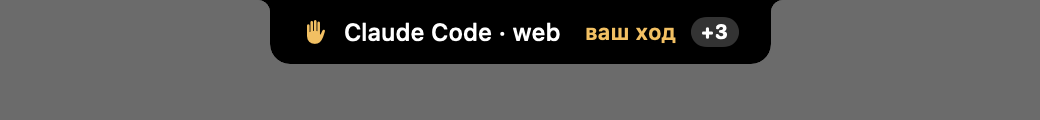
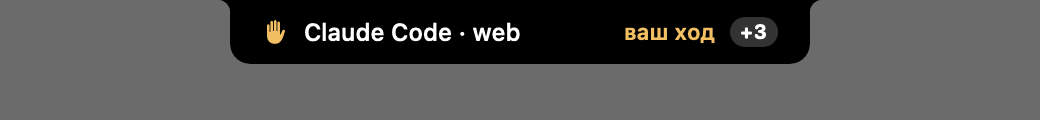
Width setting: the island's length, apart from its size
Size scales the whole island; the new Width slider makes it longer or
shorter at the same height. While something runs the strip keeps one set
length instead of stretching to each command: the command gives way with
an ellipsis in the middle, the timer and counts stay whole. Prod Guard
keeps its PROD label and shortens the environments instead.

Changed region(s): [[0.2154, 0.0, 0.8, 0.55]]

diff --git a/Sources/Notchline/Views.swift b/Sources/Notchline/Views.swift
@@ -160,7 +160,9 @@ struct RootView: View {
     enum Mode: Hashable { case toast, panel, strip, idle, sliver }
 
     private var edge: Edge { state.prefs.edge }
-    private var m: Metrics { Metrics(edge: edge, scale: state.prefs.scale, geometry: geometry) }
+    private var m: Metrics {
+        Metrics(edge: edge, scale: state.prefs.scale, widthScale: state.prefs.width, geometry: geometry)
+    }
 
     private var mode: Mode {
         if state.toast != nil { return .toast }
@@ -181,6 +183,7 @@ struct RootView: View {
         var toast: UUID?
         var connected: Bool
         var scale: Double
+        var width: Double
         var edge: Edge
     }
 
@@ -189,7 +192,7 @@ struct RootView: View {
             count: state.visibleRunning.count + state.tasks.count,
             task: state.orderedTasks.first?.id, waiting: state.orderedTasks.first?.waiting ?? false,
             prod: !state.prodAlert.isEmpty, toast: state.toast?.id,
-            connected: state.isConnected, scale: state.prefs.scale, edge: edge)
+            connected: state.isConnected, scale: state.prefs.scale, width: state.prefs.width, edge: edge)
     }
 
     /// The strip's natural size, measured off-screen so the island can animate
@@ -258,7 +261,7 @@ struct RootView: View {
         case .idle:
             return CGSize(width: m.notchWidth, height: 4)
         case .sliver:
-            return CGSize(width: 5, height: 78 * m.scale)
+            return CGSize(width: 5, height: 78 * m.scale * m.widthScale)
         }
     }
 
@@ -378,37 +381,51 @@ struct BarView: View {
 
     // MARK: horizontal
 
-    private func horizontal(now: Date) -> some View {
-        Group {
-            if m.realNotch {
-                NotchSplit(gap: m.notchWidth + 12 * m.scale) {
-                    HStack(spacing: 7 * m.scale) { lead(now: now) }
-                    HStack(spacing: 7 * m.scale) { trail(now: now) }
-                }
-            } else {
-                HStack(spacing: 12 * m.scale) {
-                    HStack(spacing: 7 * m.scale) { lead(now: now) }
-                    HStack(spacing: 7 * m.scale) { trail(now: now) }
-                }
+    @ViewBuilder private func horizontal(now: Date) -> some View {
+        if m.realNotch {
+            // around a camera housing the halves take what they need
+            NotchSplit(gap: m.notchWidth + 12 * m.scale) {
+                HStack(spacing: 7 * m.scale) { lead(now: now) }
+                HStack(spacing: 7 * m.scale) { trail(now: now) }
             }
+            .padding(.horizontal, m.sideInset)
+            .frame(minWidth: m.notchWidth)
+            .frame(height: m.thickness)
+            .fixedSize()
+        } else {
+            // a set length, so the island does not jump from command to command:
+            // the text gives way, the timer and counts never do
+            HStack(spacing: 0) {
+                // above the spacer: otherwise HStack splits the room between them
+                HStack(spacing: 7 * m.scale) { lead(now: now) }
+                    .layoutPriority(0.5)
+                Spacer(minLength: 10 * m.scale)
+                HStack(spacing: 7 * m.scale) { trail(now: now) }
+                    .fixedSize()
+                    .layoutPriority(1)
+            }
+            .padding(.horizontal, m.sideInset)
+            .frame(width: m.stripLength, height: m.thickness)
         }
-        .padding(.horizontal, m.sideInset)
-        .frame(minWidth: m.notchWidth)
-        .frame(height: m.thickness)
-        .fixedSize()
     }
 
     private var font: CGFloat { m.font }
-    private var commandLimit: Int { m.realNotch ? 26 : 34 }
+    private var commandLimit: Int { m.commandLimit }
 
     /// What is happening: a spinner and the command, or the last result.
     @ViewBuilder private func lead(now: Date) -> some View {
         if prod && !busy {
             warning
             Text("PROD").font(.system(size: font, weight: .heavy)).tracking(0.8)
+                .fixedSize()
+            // the environments give way to the length, the label never does
+            Text(state.prodAlert.map(\.text).joined(separator: " · "))
+                .font(.system(size: font - 1, weight: .medium, design: mono))
+                .lineLimit(1).truncationMode(.tail)
         } else if let task {
             if prod && !task.waiting { warning } else { TaskMark(task: task, size: font) }
             Text(clip(task.title, commandLimit))
+                .lineLimit(1).truncationMode(.middle)
                 .font(.system(size: font, weight: .medium))
         } else if !state.isConnected {
             Image(systemName: "terminal").font(.system(size: font, weight: .semibold))
@@ -417,10 +434,12 @@ struct BarView: View {
         } else if let cmd = state.visibleRunning.first {
             if prod { warning } else { StatusMark(command: cmd, size: font) }
             Text(cmd.short(commandLimit))
+                .lineLimit(1).truncationMode(.middle)
                 .font(.system(size: font, weight: .medium, design: mono))
         } else if let last = state.recent.first {
             StatusMark(command: last, size: font)
             Text(last.short(commandLimit))
+                .lineLimit(1).truncationMode(.middle)
                 .font(.system(size: font, weight: .medium, design: mono))
                 .foregroundStyle(.white.opacity(0.7))
         } else {
@@ -434,9 +453,7 @@ struct BarView: View {
     /// How long, how many more, and where.
     @ViewBuilder private func trail(now: Date) -> some View {
         if prod && !busy {
-            Text(state.prodAlert.prefix(2).map(\.text).joined(separator: " · "))
-                .font(.system(size: font - 1, weight: .medium, design: mono))
-            if state.prodAlert.count > 2 { badge("+\(state.prodAlert.count - 2)") }
+            EmptyView()   // all of it is in `lead`, where it can be shortened
         } else if let task {
             if task.waiting {
                 Text(L10n.t("waitingShort"))

diff --git a/Sources/Notchline/L10n.swift b/Sources/Notchline/L10n.swift
@@ -14,6 +14,7 @@ enum L10n {
 
     private static let table: [Lang: [String: String]] = [
         .en: [
+            "height": "Height", "width": "Width",
             "agentHint.claude": "Hooks for prompts, tool calls, permission requests and the end of each turn, next to your own. The file is rewritten with sorted keys; the original is kept as settings.json.notchline-backup.",
             "agentHint.gemini": "The same events through Gemini CLI hooks: BeforeAgent, BeforeTool, Notification, AfterAgent. Your settings.json keeps its other keys; a backup is left beside it.",
             "agentHint.copilot": "Agent mode in VS Code: a hooks file of its own in ~/.copilot/hooks, nothing else is touched. Hooks are a VS Code preview and on by default (chat.useHooks).",
@@ -37,7 +38,7 @@ enum L10n {
             "otherAgentsHint": "Anything that can run a command on an event can use notch: notch start, notch wait \"Needs input\", notch done.",
             "agentUnreadable": "Could not read {p} as JSON; it was left alone.",
             "look": "Look", "opacity": "Opacity",
-            "lookHint": "At 100 % the island is the size of a 14-inch MacBook Pro notch. On a screen with a notch it takes that notch's exact size.",
+            "lookHint": "At 100 % the island is the size of a 14-inch MacBook Pro notch. Size scales all of it; width makes it longer or shorter at the same height. On a screen with a notch it takes that notch's exact size.",
             "resetLook": "Reset to notch",
             "prodGuard": "Prod Guard", "prodEntered": "You are in production",
             "otherProdShells": "{n} shells point at production", "prodMatched": "Matches a production pattern",
@@ -97,6 +98,7 @@ enum L10n {
             "ignoreHint": "Programs that run for as long as you use them. First word of the command, comma-separated."
         ],
         .ru: [
+            "height": "Высота", "width": "Ширина",
             "agentHint.claude": "Хуки на промпт, вызовы инструментов, запросы разрешений и конец хода — рядом с вашими. Файл перезаписывается с отсортированными ключами; оригинал сохраняется как settings.json.notchline-backup.",
             "agentHint.gemini": "Те же события через хуки Gemini CLI: BeforeAgent, BeforeTool, Notification, AfterAgent. Остальные ключи settings.json остаются; рядом сохраняется копия.",
             "agentHint.copilot": "Режим агента в VS Code: отдельный файл хуков в ~/.copilot/hooks, больше ничего не трогается. Хуки в VS Code — preview-функция и включены по умолчанию (chat.useHooks).",
@@ -120,7 +122,7 @@ enum L10n {
             "otherAgentsHint": "Всё, что умеет запускать команду по событию, может пользоваться notch: notch start, notch wait \"Нужен ответ\", notch done.",
             "agentUnreadable": "Не удалось прочитать {p} как JSON; файл не тронут.",
             "look": "Внешний вид", "opacity": "Непрозрачность",
-            "lookHint": "При 100 % остров размером с вырез MacBook Pro 14″. На экране с вырезом он принимает точный размер выреза.",
+            "lookHint": "При 100 % остров размером с вырез MacBook Pro 14″. «Размер» масштабирует его целиком, «Ширина» делает длиннее или короче при той же высоте. На экране с вырезом он принимает точный размер выреза.",
             "resetLook": "Как настоящий вырез",
             "prodGuard": "Prod Guard", "prodEntered": "Вы в продакшене",
             "otherProdShells": "Оболочек, смотрящих в прод: {n}", "prodMatched": "Совпадает с шаблоном прода",
@@ -180,6 +182,7 @@ enum L10n {
             "ignoreHint": "Программы, которые работают, пока вы ими пользуетесь. Первое слово команды, через запятую."
         ],
         .zh: [
+            "height": "高度", "width": "宽度",
             "agentHint.claude": "为提示、工具调用、权限请求和每轮结束添加钩子，与你已有的钩子并存。文件会按键排序重写，原文件保存为 settings.json.notchline-backup。",
             "agentHint.gemini": "通过 Gemini CLI 钩子接收相同事件：BeforeAgent、BeforeTool、Notification、AfterAgent。settings.json 的其他键保持不变，并在旁边保留备份。",
             "agentHint.copilot": "VS Code 中的智能体模式：在 ~/.copilot/hooks 中使用独立的钩子文件，不改动其他内容。钩子是 VS Code 预览功能，默认开启（chat.useHooks）。",

diff --git a/Sources/Notchline/NotchController.swift b/Sources/Notchline/NotchController.swift
@@ -25,18 +25,31 @@ struct ScreenGeometry: Equatable {
     }
 }
 
-/// Every size the island is drawn at, derived from one scale and the screen.
-/// At scale 1 the idle island is a 14-inch MacBook Pro notch, 185 × 32 pt; on a
-/// screen with a real notch it takes that notch's exact size instead.
+/// Every size the island is drawn at, derived from two scales and the screen.
+/// At 1 × 1 the idle island is a 14-inch MacBook Pro notch, 185 × 32 pt; on a
+/// screen with a real notch it is never narrower than that notch.
 struct Metrics {
     let edge: Edge
+    /// Everything: height, type, length.
     let scale: CGFloat
+    /// The proportion: longer or shorter at the same height.
+    var widthScale: CGFloat = 1
     let geometry: ScreenGeometry
 
     /// Only the top edge meets a camera housing.
     var realNotch: Bool { edge == .top && geometry.hasNotch }
 
-    var notchWidth: CGFloat { realNotch ? geometry.notchWidth : 185 * scale }
+    var notchWidth: CGFloat {
+        realNotch ? max(geometry.notchWidth, geometry.notchWidth * widthScale) : 185 * scale * widthScale
+    }
+
+    /// Length of the strip while something runs, without its fillets. Size
+    /// scales it with everything else; width changes the proportion.
+    var stripLength: CGFloat { max(notchWidth, 290 * scale * widthScale) }
+
+    /// Beside a real notch the halves size to their text, so the command is
+    /// cut by characters there; elsewhere it gives way to the set length.
+    var commandLimit: Int { realNotch ? max(10, Int((26 * widthScale).rounded())) : 120 }
     var thickness: CGFloat { realNotch ? max(geometry.topInset, 32 * scale) : 32 * scale }
     /// Space the expanded content leaves free for the housing.
     var under: CGFloat { realNotch ? geometry.topInset : 0 }

diff --git a/Sources/Notchline/SettingsView.swift b/Sources/Notchline/SettingsView.swift
@@ -117,6 +117,13 @@ private struct GeneralTab: View {
                             .monospacedDigit().frame(width: 48, alignment: .trailing)
                     }
                 }
+                LabeledContent(L10n.t("width")) {
+                    HStack {
+                        Slider(value: prefBinding(\.width), in: 0.6...1.5, step: 0.05)
+                        Text("\(Int((state.prefs.width * 100).rounded())) %")
+                            .monospacedDigit().frame(width: 48, alignment: .trailing)
+                    }
+                }
                 LabeledContent(L10n.t("opacity")) {
                     HStack {
                         Slider(value: prefBinding(\.opacity), in: 0.2...1, step: 0.05)
@@ -126,9 +133,10 @@ private struct GeneralTab: View {
                 }
                 Text(L10n.t("lookHint")).font(.caption).foregroundStyle(.secondary)
                 Button(L10n.t("resetLook")) {
-                    var p = state.prefs; p.scale = 1; p.opacity = 1; p.surface = .solid; state.prefs = p
+                    var p = state.prefs; p.scale = 1; p.width = 1; p.opacity = 1; p.surface = .solid; state.prefs = p
                 }
-                .disabled(state.prefs.scale == 1 && state.prefs.opacity == 1 && state.prefs.surface == .solid)
+                .disabled(state.prefs.scale == 1 && state.prefs.width == 1 && state.prefs.opacity == 1
+                          && state.prefs.surface == .solid)
             }
 
         }

diff --git a/Sources/Notchline/Settings.swift b/Sources/Notchline/Settings.swift
@@ -45,8 +45,10 @@ struct Prefs: Codable {
     var edge: Edge = .top
     var show: ShowMode = .auto
     var surface: Surface = .solid
-    /// 1 is the size of a 14-inch MacBook Pro notch: 185 × 32 pt.
+    /// The whole island; 1 is a 14-inch MacBook Pro notch, 185 × 32 pt.
     var scale: Double = 1
+    /// Its proportion: longer or shorter at the same height.
+    var width: Double = 1
     /// Of the background only; text always stays fully opaque.
     var opacity: Double = 1
     var lang: Lang = .en
@@ -82,6 +84,7 @@ struct Prefs: Codable {
         show = (try? c.decode(ShowMode.self, forKey: .show)) ?? d.show
         surface = (try? c.decode(Surface.self, forKey: .surface)) ?? d.surface
         scale = (try? c.decode(Double.self, forKey: .scale)) ?? d.scale
+        width = (try? c.decode(Double.self, forKey: .width)) ?? d.width
         opacity = (try? c.decode(Double.self, forKey: .opacity)) ?? d.opacity
         lang = (try? c.decode(Lang.self, forKey: .lang)) ?? d.lang
         allDisplays = (try? c.decode(Bool.self, forKey: .allDisplays)) ?? d.allDisplays

diff --git a/Sources/Notchline/Snapshots.swift b/Sources/Notchline/Snapshots.swift
@@ -73,6 +73,10 @@ enum Snapshots {
         render(RootView(geometry: plain), strip, "running-small", dir)
 
         prefs.scale = 1
+        prefs.width = 0.6
+        state.prefs = prefs
+        render(RootView(geometry: plain), strip, "running-narrow", dir)
+        prefs.width = 1
         prefs.edge = .right
         state.prefs = prefs
         render(RootView(geometry: plain), CGSize(width: 90, height: 200), "vertical", dir)
